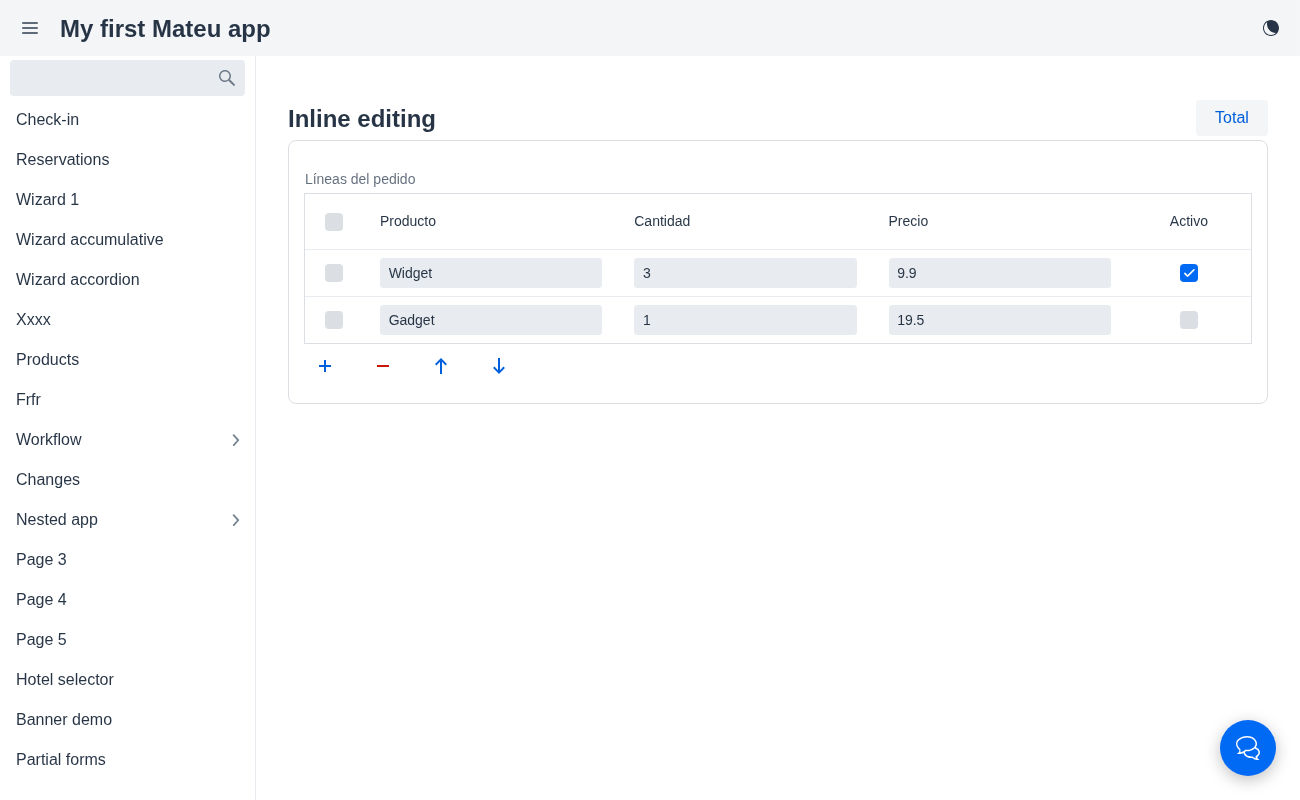
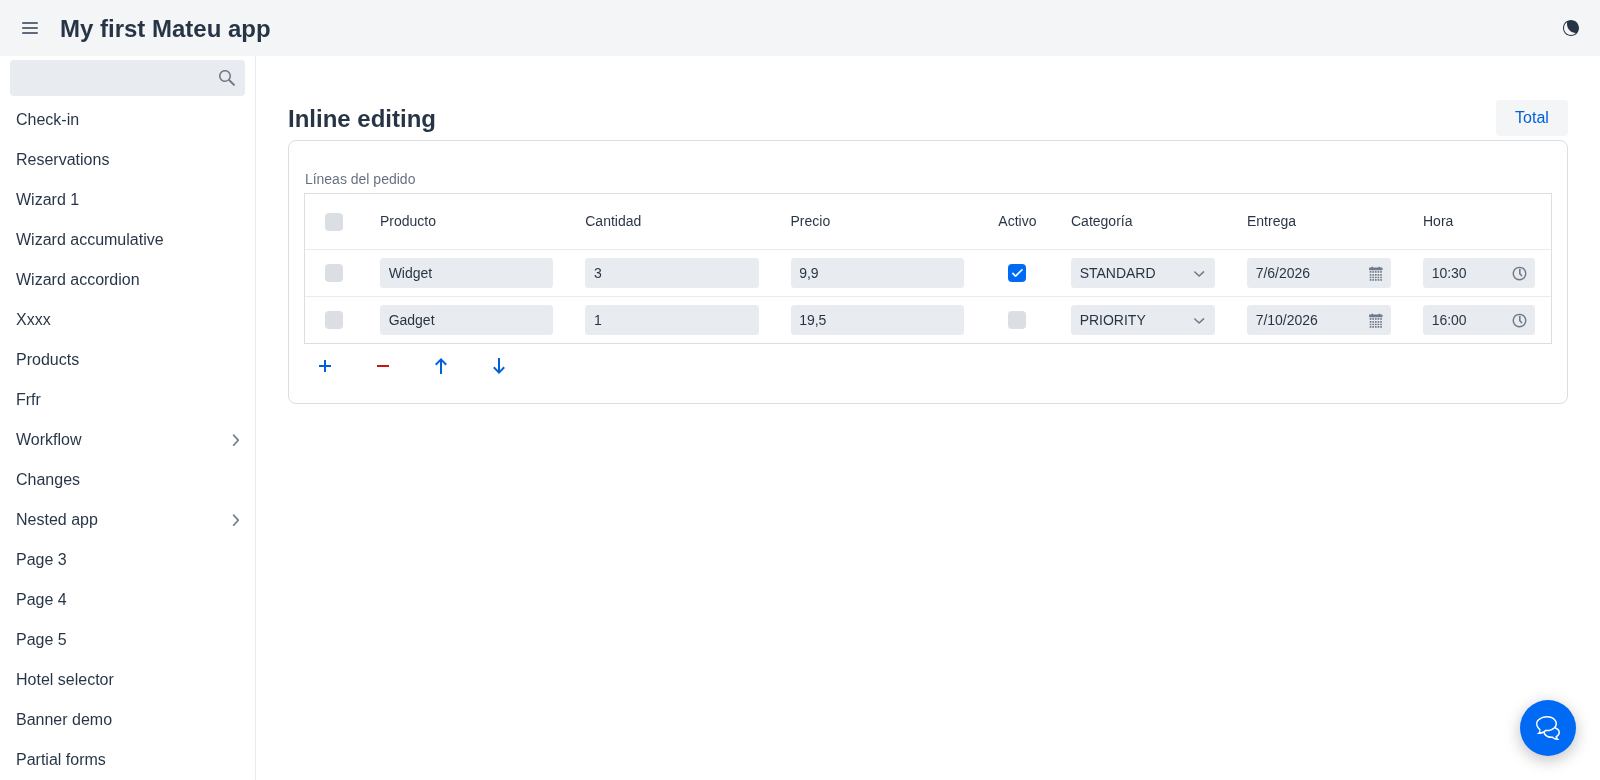
feat(uidl): inline editing supports all scalar types + enums
Pick the inline-cell editor from the field's real Java type (the coarse column
dataType collapses most types to string):

- GridColumn gains editorType + editorOptions, computed in GridColumnBuilder via
  FieldTypeMapper.getDataType (+ enum detection): text, integer, number, boolean,
  date, time, datetime, and select (enum constants → editorOptions).
- renderColumn.ts renders vaadin integer-field / number-field / checkbox /
  date-picker / time-picker / date-time-picker / combo-box accordingly.
- Demo: LineItem now also has an enum (Categoría), LocalDate and LocalTime.

Verified round-trip: editing qty/price/enum/date/time and running the action
reads back "Total: 59.5 · 1ª: Widget/GIFT/2026-12-25/08:15".

diff --git a/frontend/web/monorepo/libs/mateu/src/mateu/ui/infra/ui/renderers/columnRenderers/renderColumn.ts b/frontend/web/monorepo/libs/mateu/src/mateu/ui/infra/ui/renderers/columnRenderers/renderColumn.ts
@@ -24,12 +24,17 @@ import { GridSortColumn } from "@vaadin/grid/all-imports";
 import { ComponentState, ComponentData } from "@infra/ui/renderers/types.ts";
 import "@vaadin/text-field";
 import "@vaadin/number-field";
+import "@vaadin/integer-field";
 import "@vaadin/checkbox";
 import "@vaadin/date-picker";
+import "@vaadin/time-picker";
+import "@vaadin/date-time-picker";
+import "@vaadin/combo-box";
 
 // Inline-editing cell: an input bound to the row value. On commit it mutates the row and re-emits the
 // whole grid array as a value-changed so mateu-component updates state[fieldId] (edits then round-trip
-// with the enclosing form's next action). Unsupported types fall back to a read-only span.
+// with the enclosing form's next action). The editor is picked from the column's editorType (derived
+// server-side from the field's real Java type); unknown types fall back to a text field.
 const renderEditableCell = (
     item: any,
     column: GridColumn,
@@ -47,19 +52,29 @@ const renderEditableCell = (
         }))
     }
     const v = item[column.id]
-    switch (column.dataType) {
-        case 'bool':
+    const s = v == null ? '' : String(v)
+    switch (column.editorType) {
+        case 'boolean':
             return html`<vaadin-checkbox ?checked=${!!v} @checked-changed=${(e: any) => commit(e.detail.value)}></vaadin-checkbox>`
         case 'integer':
+            return html`<vaadin-integer-field theme="small" style="width:100%;" .value=${s} @change=${(e: any) => commit(e.target.value)}></vaadin-integer-field>`
         case 'number':
-        case 'money':
-            return html`<vaadin-number-field theme="small" style="width:100%;" .value=${v == null ? '' : String(v)} @change=${(e: any) => commit(e.target.value)}></vaadin-number-field>`
+            return html`<vaadin-number-field theme="small" style="width:100%;" .value=${s} @change=${(e: any) => commit(e.target.value)}></vaadin-number-field>`
         case 'date':
-            return html`<vaadin-date-picker theme="small" style="width:100%;" .value=${v ?? ''} @value-changed=${(e: any) => commit(e.detail.value)}></vaadin-date-picker>`
-        case 'string':
-            return html`<vaadin-text-field theme="small" style="width:100%;" .value=${v ?? ''} @change=${(e: any) => commit(e.target.value)}></vaadin-text-field>`
+            return html`<vaadin-date-picker theme="small" style="width:100%;" .value=${s} @value-changed=${(e: any) => commit(e.detail.value)}></vaadin-date-picker>`
+        case 'time':
+            return html`<vaadin-time-picker theme="small" style="width:100%;" .value=${s} @value-changed=${(e: any) => commit(e.detail.value)}></vaadin-time-picker>`
+        case 'datetime':
+            return html`<vaadin-date-time-picker theme="small" style="width:100%;" .value=${s} @value-changed=${(e: any) => commit(e.detail.value)}></vaadin-date-time-picker>`
+        case 'select':
+            return html`<vaadin-combo-box
+                theme="small" style="width:100%;"
+                .items=${(column.editorOptions ?? []).map(o => ({ label: o.label, value: String(o.value) }))}
+                item-label-path="label" item-value-path="value"
+                .value=${s}
+                @value-changed=${(e: any) => commit(e.detail.value)}></vaadin-combo-box>`
         default:
-            return html`<span title="${v}" style="overflow: hidden; text-overflow: ellipsis; white-space: nowrap; display: block;">${v}</span>`
+            return html`<vaadin-text-field theme="small" style="width:100%;" .value=${s} @change=${(e: any) => commit(e.target.value)}></vaadin-text-field>`
     }
 }
 

diff --git a/frontend/web/monorepo/libs/mateu/src/mateu/shared/apiClients/dtos/componentmetadata/GridColumn.ts b/frontend/web/monorepo/libs/mateu/src/mateu/shared/apiClients/dtos/componentmetadata/GridColumn.ts
@@ -22,6 +22,8 @@ export default interface GridColumn extends ComponentMetadata {
     priority: number
     identifier: boolean
     editable: boolean
+    editorType: string | undefined
+    editorOptions: { value: any, label: string }[] | undefined
     weight: number | null
 
 }

diff --git a/backend/shared/core/src/main/java/io/mateu/core/domain/out/componentmapper/GridColumnBuilder.java b/backend/shared/core/src/main/java/io/mateu/core/domain/out/componentmapper/GridColumnBuilder.java
@@ -41,6 +41,10 @@ public class GridColumnBuilder {
               // never truncates, adapting to the current density instead of a fixed width.
               var auto = "auto".equalsIgnoreCase(rawWidth);
               var colWidth = auto ? null : rawWidth;
+              // In inline mode every data column is edited in place; a field marked @ReadOnly stays
+              // display-only.
+              boolean colEditable =
+                  inlineEditing && !MetaAnnotations.isPresent(columnField, ReadOnly.class);
               columns.add(
                   GridColumn.builder()
                       .dataType(getDataTypeForColumn(columnField))
@@ -55,10 +59,9 @@ public class GridColumnBuilder {
                       // space.
                       .flexGrow(auto || colWidth != null ? "0" : null)
                       .filterable(getFilterable(columnField))
-                      // In inline mode every data column is edited in place; a field marked
-                      // @ReadOnly stays display-only.
-                      .editable(
-                          inlineEditing && !MetaAnnotations.isPresent(columnField, ReadOnly.class))
+                      .editable(colEditable)
+                      .editorType(colEditable ? getEditorType(columnField) : null)
+                      .editorOptions(colEditable ? getEditorOptions(columnField) : null)
                       .build());
             });
     // The per-row "Edit" button opens the detail form; inline editing replaces it.
@@ -136,6 +139,40 @@ public class GridColumnBuilder {
       }
     }
     return getFormColumns(getGenericClass(field, field.getType(), "E"));
+  }
+
+  /**
+   * The inline-cell editor to use for a column, derived from the element field's real Java type
+   * (the coarse column {@code dataType} collapses most types to {@code string}).
+   */
+  private static String getEditorType(Field columnField) {
+    if (columnField.getType().isEnum()) {
+      return "select";
+    }
+    if (MetaAnnotations.isPresent(columnField, io.mateu.uidl.annotations.Stereotype.class)
+        && MetaAnnotations.find(columnField, io.mateu.uidl.annotations.Stereotype.class).value()
+            == io.mateu.uidl.data.FieldStereotype.money) {
+      return "number";
+    }
+    return switch (getDataType(columnField)) {
+      case bool -> "boolean";
+      case integer -> "integer";
+      case number, money -> "number";
+      case date -> "date";
+      case dateTime -> "datetime";
+      case time -> "time";
+      default -> "text";
+    };
+  }
+
+  /** Options for a {@code select} editor: the constants of an enum column. */
+  private static java.util.List<io.mateu.uidl.data.Option> getEditorOptions(Field columnField) {
+    if (!columnField.getType().isEnum()) {
+      return null;
+    }
+    return java.util.Arrays.stream(columnField.getType().getEnumConstants())
+        .map(c -> new io.mateu.uidl.data.Option(((Enum<?>) c).name(), c.toString()))
+        .toList();
   }
 
   private static String getColumnWidth(Field columnField) {

diff --git a/demo/demo-admin-panel/src/main/java/io/mateu/mdd/demoadminpanel/infra/in/ui/inlineediting/InlineEditingDemo.java b/demo/demo-admin-panel/src/main/java/io/mateu/mdd/demoadminpanel/infra/in/ui/inlineediting/InlineEditingDemo.java
@@ -31,13 +31,23 @@ public class InlineEditingDemo {
     List<LineItem> lines =
             new ArrayList<>(
                     List.of(
-                            new LineItem("Widget", 3, 9.90, true),
-                            new LineItem("Gadget", 1, 19.50, false)));
+                            new LineItem(
+                                    "Widget", 3, 9.90, true, LineCategory.STANDARD,
+                                    java.time.LocalDate.now().plusDays(3), java.time.LocalTime.of(10, 30)),
+                            new LineItem(
+                                    "Gadget", 1, 19.50, false, LineCategory.PRIORITY,
+                                    java.time.LocalDate.now().plusDays(7), java.time.LocalTime.of(16, 0))));
 
     @Toolbar
     @Label("Total")
     Object total(HttpRequest httpRequest) {
         double total = lines.stream().mapToDouble(l -> l.getPrice() * l.getQty()).sum();
-        return Message.success("Líneas: " + lines.size() + " · Total: " + total);
+        var first = lines.isEmpty() ? null : lines.get(0);
+        return Message.success(
+                "Líneas: " + lines.size() + " · Total: " + total
+                        + (first != null
+                                ? " · 1ª: " + first.getProduct() + "/" + first.getCategory()
+                                        + "/" + first.getDeliveryDate() + "/" + first.getDeliveryTime()
+                                : ""));
     }
 }

diff --git a/backend/shared/core/src/main/java/io/mateu/core/domain/out/fragmentmapper/mappers/GridColumnMapper.java b/backend/shared/core/src/main/java/io/mateu/core/domain/out/fragmentmapper/mappers/GridColumnMapper.java
@@ -39,6 +39,21 @@ public class GridColumnMapper {
             .priority(gridColumn.priority() != Integer.MAX_VALUE ? gridColumn.priority() : null)
             .identifier(gridColumn.identifier())
             .editable(gridColumn.editable())
+            .editorType(gridColumn.editorType())
+            .editorOptions(
+                gridColumn.editorOptions() == null
+                    ? null
+                    : gridColumn.editorOptions().stream()
+                        .map(
+                            o ->
+                                new io.mateu.dtos.OptionDto(
+                                    o.value(),
+                                    o.label(),
+                                    o.description(),
+                                    o.image(),
+                                    o.imageStyle(),
+                                    o.icon()))
+                        .toList())
             .weight(gridColumn.weight())
             .build(),
         gridColumn.id(),

diff --git a/demo/demo-admin-panel/src/main/java/io/mateu/mdd/demoadminpanel/infra/in/ui/inlineediting/LineItem.java b/demo/demo-admin-panel/src/main/java/io/mateu/mdd/demoadminpanel/infra/in/ui/inlineediting/LineItem.java
@@ -1,16 +1,23 @@
 package io.mateu.mdd.demoadminpanel.infra.in.ui.inlineediting;
 
+import io.mateu.uidl.annotations.ColumnWidth;
 import io.mateu.uidl.annotations.Label;
 import lombok.AllArgsConstructor;
 import lombok.Data;
 import lombok.NoArgsConstructor;
 
+import java.time.LocalDate;
+import java.time.LocalTime;
+
 @Data
 @AllArgsConstructor
 @NoArgsConstructor
 public class LineItem {
-    @Label("Producto") String product;
-    @Label("Cantidad") int qty;
-    @Label("Precio")   double price;
-    @Label("Activo")   boolean active;
+    @Label("Producto")  String product;
+    @Label("Cantidad")  int qty;
+    @Label("Precio")    double price;
+    @Label("Activo")    boolean active;
+    @ColumnWidth("11rem") @Label("Categoría") LineCategory category;
+    @ColumnWidth("11rem") @Label("Entrega")   LocalDate deliveryDate;
+    @ColumnWidth("9rem")  @Label("Hora")      LocalTime deliveryTime;
 }

diff --git a/demo/demo-admin-panel/src/main/java/io/mateu/mdd/demoadminpanel/infra/in/ui/inlineediting/LineCategory.java b/demo/demo-admin-panel/src/main/java/io/mateu/mdd/demoadminpanel/infra/in/ui/inlineediting/LineCategory.java
@@ -1,0 +1,7 @@
+package io.mateu.mdd.demoadminpanel.infra.in.ui.inlineediting;
+
+public enum LineCategory {
+    STANDARD,
+    PRIORITY,
+    GIFT
+}

diff --git a/backend/shared/uidl/src/main/java/io/mateu/uidl/data/GridColumn.java b/backend/shared/uidl/src/main/java/io/mateu/uidl/data/GridColumn.java
@@ -1,5 +1,6 @@
 package io.mateu.uidl.data;
 
+import java.util.List;
 import lombok.Builder;
 
 @Builder(toBuilder = true)
@@ -26,6 +27,8 @@ public record GridColumn(
     Integer priority,
     boolean identifier,
     boolean editable,
+    String editorType,
+    List<Option> editorOptions,
     Double weight)
     implements GridContent {
 

diff --git a/backend/shared/dtos/src/main/java/io/mateu/dtos/GridColumnDto.java b/backend/shared/dtos/src/main/java/io/mateu/dtos/GridColumnDto.java
@@ -27,5 +27,7 @@ public record GridColumnDto(
     Integer priority,
     boolean identifier,
     boolean editable,
+    String editorType,
+    java.util.List<OptionDto> editorOptions,
     Double weight)
     implements ComponentMetadataDto {}

diff --git a/doc/src/content/docs/java-ui-definition/grids.md b/doc/src/content/docs/java-ui-definition/grids.md
@@ -83,8 +83,20 @@ no per-row "Edit" button.
 List<OrderLine> lines;
 ```
 
-Each column becomes an editable input based on its type — text field, number, checkbox, date picker;
-a field marked `@ReadOnly` stays display-only. Edits travel back in the normal component state, so
+Each column becomes an editable input based on its field's real Java type:
+
+| Type | Editor |
+|---|---|
+| `String` | text field |
+| `int` / `Integer` / `long` | integer field |
+| `double` / `BigDecimal` / `@Stereotype(money)` | number field |
+| `boolean` | checkbox |
+| `enum` | combo box (the enum constants) |
+| `LocalDate` | date picker |
+| `LocalTime` | time picker |
+| `LocalDateTime` | date-time picker |
+
+A field marked `@ReadOnly` stays display-only. Edits travel back in the normal component state, so
 they are **persisted when the enclosing form's next action runs** (a save/submit, or any developer
 action that reads the list) — there is no per-cell save.
 